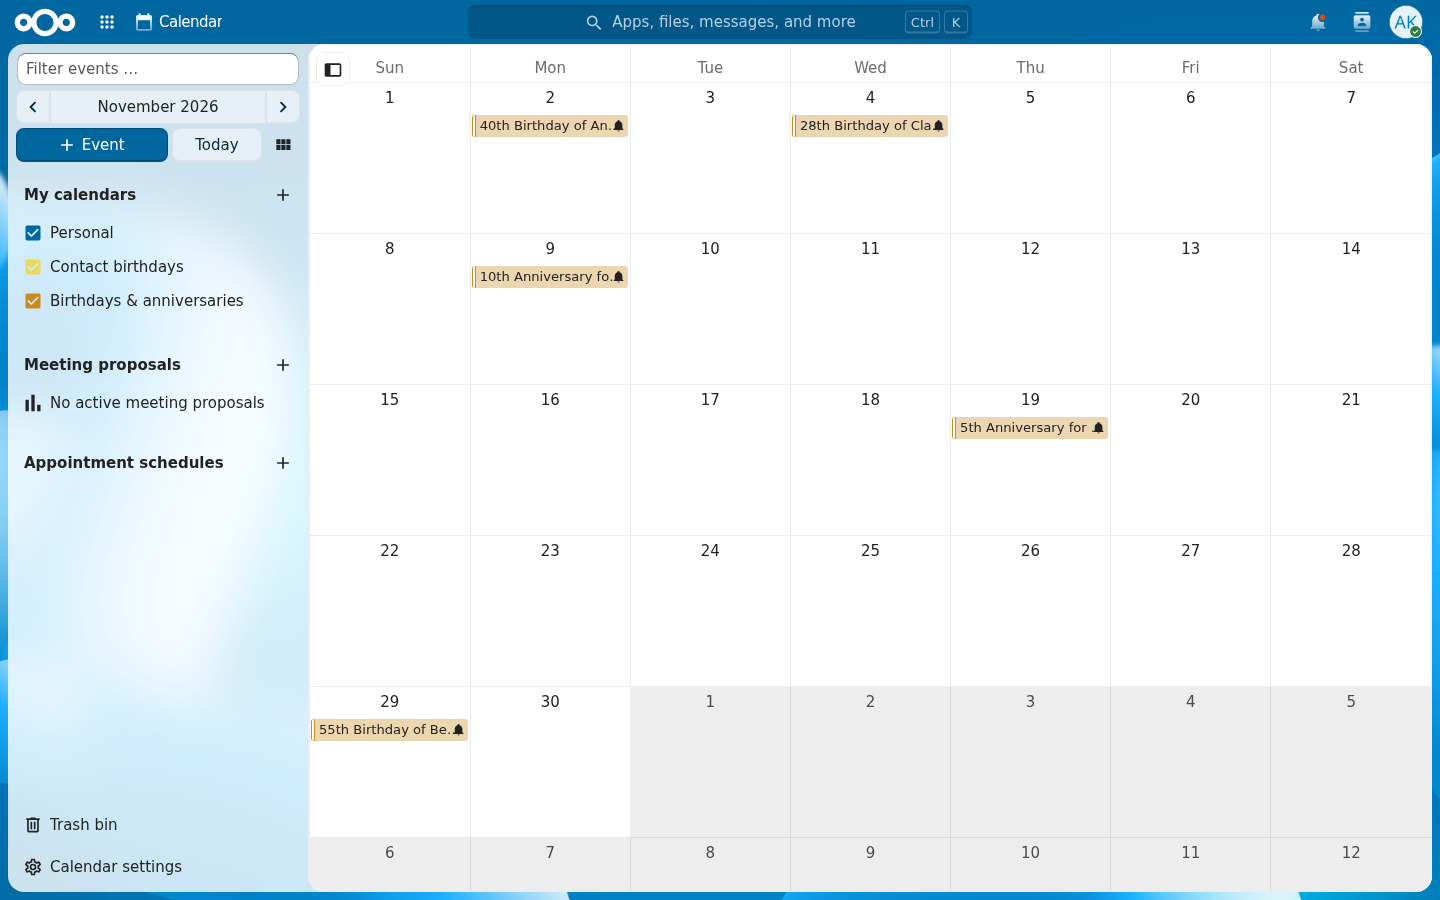
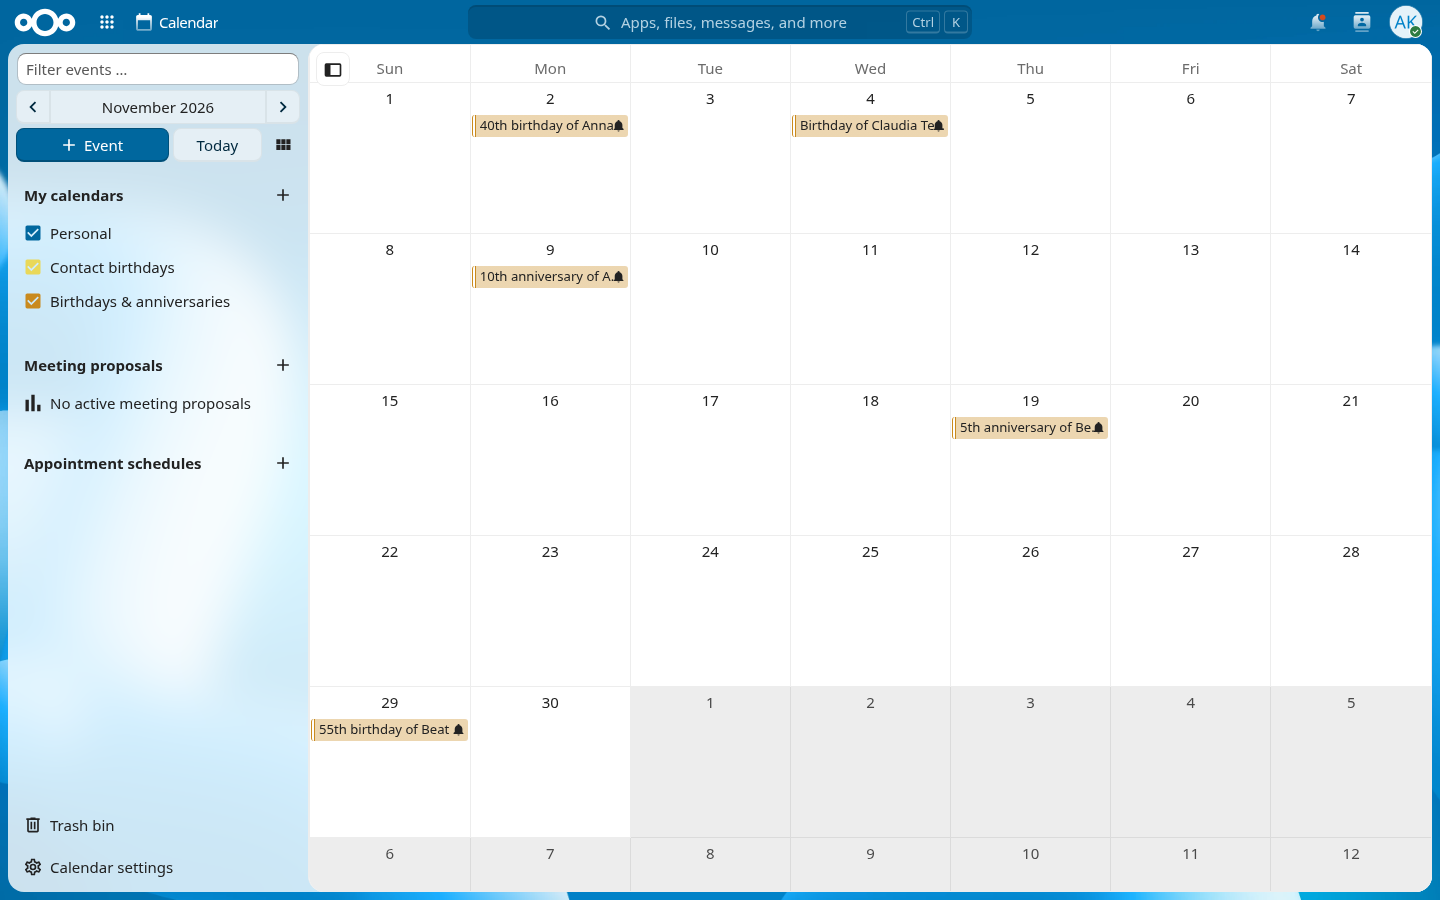
Retake the screenshots
They show the new wording, the age-less birthdays of interested users and
the note on the data sheet. scripts/screenshots.mjs takes them with
headless Chromium in the DDEV container, so they can be reproduced.

diff --git a/README.md b/README.md
@@ -127,6 +127,7 @@ To get some data to work with, run `ddev occ laudatio:demo-data`. It creates two
 | `ddev occ laudatio:demo-data` | Create demo data on an empty app (`--force` adds it to existing data) |
 | `ddev occ laudatio:purge` | Delete all data of the app, then `ddev occ app:enable laudatio` starts over |
 | `ddev exec scripts/appstore-package.sh` | Build the unsigned App Store archive in `build/appstore/` (after `ddev npm run build`), see [RELEASING.md](RELEASING.md) |
+| `ddev exec node scripts/screenshots.mjs` | Retake the App Store screenshots with headless Chromium, see the preparation in [scripts/screenshots.mjs](scripts/screenshots.mjs) |
 | `ddev occ <command>` | Run Nextcloud's `occ`, e.g. `ddev occ app:list` |
 | `ddev occ log:watch` | Follow the Nextcloud log |
 | `ddev mailpit` | Open Mailpit to see sent mails |
